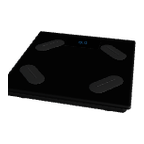
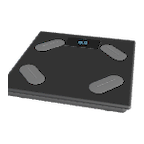
mac(tray): draw the device rows, so the dots really do share a column
A menu item lays its text out after its image, so anything pinned to the
trailing edge with a tab stop is measured from wherever that text begins — and
the wearables, whose rows differ, kept their dots out of line with the devices'
however carefully the images were matched. The rows are drawn now: a small view
per row places the picture, the name, the detail and the dot against the row's
own bounds. Nothing is given up by that, because these rows were never
clickable. The headings are drawn too, at the menu's left margin rather than
indented under the rows they head.

The pictures are half again as big, and the symbols are chosen from the device's
name as well as its kind — everything paired through a web page is recorded as
"browser", this Mac and the ESP32 board included, so a globe on all of them said
nothing. It is a laptop, a phone, a chip or Safari now.

The wearable renders needed more than cropping: the bottle and the scale are
black objects carrying one white specular over an almost-black body, so peak
brightness said nothing about whether you could see them. Each is lifted by
gamma on its mean until the shape reads at menu size instead of being a
silhouette on a dark menu.

Claude-Session: https://claude.ai/code/session_01MTaJeKSnLzzvxM7j2rFhx8

diff --git a/desktop_client/jc_client/mac_popover.py b/desktop_client/jc_client/mac_popover.py
@@ -37,19 +37,25 @@ _FOOTER_H = 34
 
 _MINI_PATH = "/?mini=voice"
 
-# Row metrics. ONE size for every picture, renders and SF Symbols alike: AppKit
-# indents a row's text by its image, so images of different widths gave every row
-# a different text origin — which is what threw the tab-stopped status dots out
-# of line with each other.
-_ICON_PT = 22
-_SYMBOL_PT = 22
-# Where the trailing status dot is pinned. Wide enough for the longest row.
-_ROW_WIDTH = 300.0
+# Row metrics. The device rows are drawn by hand (see `_RowView`) rather than
+# handed to AppKit as text: a menu item lays its text out after its image, so a
+# status dot placed with a tab stop moves with whatever is to its left and never
+# lines up between rows. Drawing puts it at a fixed distance from the row's
+# trailing edge, which is the only way it sits in a true column.
+_ICON_PT = 33.0
+_ROW_WIDTH = 340.0
+_ROW_HEIGHT = 40.0
+_LEFT_INSET = 14.0
+_GAP = 9.0
+_DOT_PT = 8.0
+_DOT_RIGHT_INSET = 16.0
+_HEADER_HEIGHT = 24.0
+_HEADER_INSET = 11.0
 
 
-def _kind_symbol(kind: str) -> str:
+def _kind_symbol(kind: str, name: str = "") -> str:
     from jc_client.device_roster import kind_symbol
-    return kind_symbol(kind)
+    return kind_symbol(kind, name)
 
 
 def _const(module, *names, default=None):
@@ -180,70 +186,47 @@ class MenuBarVoicePopover:
             logger.debug("voice popover: could not style the menu: %s", exc)
 
     def _style_header(self, item, row) -> None:
-        import AppKit
+        """A section heading, drawn at the menu's own left margin.
 
+        As a titled item it would start after the image gutter, indented under
+        the rows it heads; drawn, it sits where the system puts "Known Networks".
+        """
+        if _RowView is None:
+            return
+        view = _RowView.alloc().initWithFrame_(
+            _AppKit.NSMakeRect(0, 0, _ROW_WIDTH, _HEADER_HEIGHT))
+        view.row = row
+        view.image = None
         item.setImage_(None)
-        font = AppKit.NSFont.systemFontOfSize_weight_(11, AppKit.NSFontWeightSemibold)
-        item.setAttributedTitle_(AppKit.NSAttributedString.alloc().initWithString_attributes_(
-            row.name.upper(), {
-                AppKit.NSFontAttributeName: font,
-                AppKit.NSForegroundColorAttributeName: AppKit.NSColor.secondaryLabelColor(),
-                AppKit.NSKernAttributeName: 0.6,
-            }))
+        item.setView_(view)
 
     def _style_device(self, item, row) -> None:
-        import AppKit
+        """Hand the row to a view that draws itself, so every part is placed.
 
-        image = self._image_for(row)
-        if image is not None:
-            item.setImage_(image)
-
-        # Name, then the detail in a smaller secondary colour, then the status
-        # dot pushed to the trailing edge by a right tab stop.
-        body = AppKit.NSFont.menuFontOfSize_(0)
-        small = AppKit.NSFont.menuFontOfSize_(11)
-        title = AppKit.NSMutableAttributedString.alloc().initWithString_attributes_(
-            row.name, {AppKit.NSFontAttributeName: body})
-        if row.detail:
-            title.appendAttributedString_(
-                AppKit.NSAttributedString.alloc().initWithString_attributes_(
-                    "  " + row.detail, {
-                        AppKit.NSFontAttributeName: small,
-                        AppKit.NSForegroundColorAttributeName: AppKit.NSColor.secondaryLabelColor(),
-                    }))
-        title.appendAttributedString_(
-            AppKit.NSAttributedString.alloc().initWithString_attributes_(
-                "\t●", {
-                    AppKit.NSFontAttributeName: AppKit.NSFont.systemFontOfSize_(9),
-                    AppKit.NSForegroundColorAttributeName: self._dot_colour(row.online),
-                }))
-
-        paragraph = AppKit.NSMutableParagraphStyle.alloc().init()
-        tab = AppKit.NSTextTab.alloc().initWithTextAlignment_location_options_(
-            _const(AppKit, "NSTextAlignmentRight", default=2), _ROW_WIDTH, {})
-        paragraph.setTabStops_([tab])
-        title.addAttribute_value_range_(AppKit.NSParagraphStyleAttributeName, paragraph,
-                                        AppKit.NSMakeRange(0, title.length()))
-        item.setAttributedTitle_(title)
-
-    def _dot_colour(self, online: bool):
-        import AppKit
-
-        if online:
-            return AppKit.NSColor.systemGreenColor()
-        # Not a red alarm: most of these are simply out of range, which is normal.
-        return AppKit.NSColor.tertiaryLabelColor()
+        These rows are never clickable, so a custom view costs nothing in
+        behaviour — and it is the only way the pictures all render at one size
+        and the status dots share a column.
+        """
+        if _RowView is None:
+            return
+        view = _RowView.alloc().initWithFrame_(
+            _AppKit.NSMakeRect(0, 0, _ROW_WIDTH, _ROW_HEIGHT))
+        view.row = row
+        view.image = self._image_for(row)
+        item.setImage_(None)
+        item.setView_(view)
 
     def _image_for(self, row):
-        """An 18pt picture for one row, cached — menus rebuild every few seconds."""
-        key = row.wearable or f"symbol:{_kind_symbol(row.kind)}"
+        """One row's picture, cached — the menu rebuilds every couple of seconds."""
+        symbol = _kind_symbol(row.kind, row.name)
+        key = row.wearable or f"symbol:{symbol}"
         if key in self._image_cache:
             return self._image_cache[key]
-        image = self._render_wearable(row.wearable) if row.wearable             else self._symbol(_kind_symbol(row.kind))
+        image = self._render_wearable(row.wearable) if row.wearable else self._symbol(symbol)
         self._image_cache[key] = image
         return image
 
-    def _render_wearable(self, wearable: str):
+    def _render_wearable(self, wearable: str):  # noqa: D401
         """The PNG rendered from the device's own 3D model in the iOS app."""
         import AppKit
         from pathlib import Path
@@ -258,6 +241,21 @@ class MenuBarVoicePopover:
         image.setSize_(AppKit.NSMakeSize(_ICON_PT, _ICON_PT))
         return image
 
+    def _tinted(self, image, colour):
+        """A template symbol drawn by hand loses the tint AppKit would give it."""
+        import AppKit
+
+        out = image.copy()
+        out.setSize_(AppKit.NSMakeSize(_ICON_PT, _ICON_PT))
+        out.lockFocus()
+        colour.set()
+        AppKit.NSRectFillUsingOperation(
+            AppKit.NSMakeRect(0, 0, _ICON_PT, _ICON_PT),
+            _const(AppKit, "NSCompositingOperationSourceAtop", default=5))
+        out.unlockFocus()
+        out.setTemplate_(False)
+        return out
+
     def _symbol(self, name: str):
         import AppKit
 
@@ -267,10 +265,10 @@ class MenuBarVoicePopover:
             image = None
         if image is None:
             return None
-        image.setSize_(AppKit.NSMakeSize(_SYMBOL_PT, _SYMBOL_PT))
-        # Template images follow the menu's own light/dark appearance.
+        image.setSize_(AppKit.NSMakeSize(_ICON_PT, _ICON_PT))
         image.setTemplate_(True)
-        return image
+        # Drawn by hand, so the menu's own tinting no longer applies.
+        return self._tinted(image, AppKit.NSColor.labelColor())
 
     # ── clicks ───────────────────────────────────────────────────────
 
@@ -498,6 +496,8 @@ def install(icon, on_open_window: Callable[[], None]) -> Optional[MenuBarVoicePo
 
 _ClickDelegate = None
 _WebViewDelegate = None
+_RowView = None
+_AppKit = None
 # Decision blocks we could not call; held so WebKit never releases them. See
 # `_grant` — releasing an uncalled one aborts the process.
 _UNANSWERED: list = []
@@ -538,6 +538,83 @@ if sys.platform == "darwin":  # pragma: no cover - needs a macOS run loop
                 if self.owner is not None:
                     self.owner.open_in_window()
 
+        class _RowView(_AppKit.NSView):
+            """One device or heading, drawn rather than described.
+
+            A menu item lays its text out after its image, so anything pinned to
+            the trailing edge with a tab stop shifts with whatever precedes it —
+            which is why the status dots never shared a column. Drawing places
+            every part against the row's own bounds instead. These rows are not
+            clickable, so nothing of a menu item's behaviour is given up.
+            """
+
+            row = None
+            image = None
+
+            def drawRect_(self, _dirty):
+                bounds = self.bounds()
+                if self.row is None:
+                    return
+                if getattr(self.row, "header", False):
+                    self._draw_header(bounds)
+                else:
+                    self._draw_device(bounds)
+
+            def _draw_header(self, bounds):
+                text = _AppKit.NSAttributedString.alloc().initWithString_attributes_(
+                    str(self.row.name).upper(), {
+                        _AppKit.NSFontAttributeName:
+                            _AppKit.NSFont.systemFontOfSize_weight_(11, _AppKit.NSFontWeightSemibold),
+                        _AppKit.NSForegroundColorAttributeName:
+                            _AppKit.NSColor.secondaryLabelColor(),
+                        _AppKit.NSKernAttributeName: 0.6,
+                    })
+                size = text.size()
+                text.drawAtPoint_(_AppKit.NSMakePoint(
+                    _HEADER_INSET, (bounds.size.height - size.height) / 2))
+
+            def _draw_device(self, bounds):
+                if self.image is not None:
+                    self.image.drawInRect_fromRect_operation_fraction_(
+                        _AppKit.NSMakeRect(_LEFT_INSET,
+                                           (bounds.size.height - _ICON_PT) / 2,
+                                           _ICON_PT, _ICON_PT),
+                        _AppKit.NSZeroRect,
+                        _const(_AppKit, "NSCompositingOperationSourceOver", default=2), 1.0)
+
+                name = _AppKit.NSAttributedString.alloc().initWithString_attributes_(
+                    str(self.row.name), {
+                        _AppKit.NSFontAttributeName: _AppKit.NSFont.menuFontOfSize_(0),
+                        _AppKit.NSForegroundColorAttributeName: _AppKit.NSColor.labelColor(),
+                    })
+                x = _LEFT_INSET + _ICON_PT + _GAP
+                size = name.size()
+                y = (bounds.size.height - size.height) / 2
+                name.drawAtPoint_(_AppKit.NSMakePoint(x, y))
+
+                detail = str(getattr(self.row, "detail", "") or "")
+                if detail:
+                    aside = _AppKit.NSAttributedString.alloc().initWithString_attributes_(
+                        detail, {
+                            _AppKit.NSFontAttributeName: _AppKit.NSFont.menuFontOfSize_(11),
+                            _AppKit.NSForegroundColorAttributeName:
+                                _AppKit.NSColor.secondaryLabelColor(),
+                        })
+                    aside_size = aside.size()
+                    aside.drawAtPoint_(_AppKit.NSMakePoint(
+                        x + size.width + 8,
+                        (bounds.size.height - aside_size.height) / 2))
+
+                # The dot, measured from the row's trailing edge so every row
+                # agrees on where it goes.
+                colour = _AppKit.NSColor.systemGreenColor() if self.row.online \
+                    else _AppKit.NSColor.tertiaryLabelColor()
+                colour.set()
+                rect = _AppKit.NSMakeRect(bounds.size.width - _DOT_RIGHT_INSET - _DOT_PT,
+                                          (bounds.size.height - _DOT_PT) / 2,
+                                          _DOT_PT, _DOT_PT)
+                _AppKit.NSBezierPath.bezierPathWithOvalInRect_(rect).fill()
+
         class _WebViewDelegate(_AppKit.NSObject):  # noqa: F811
             """Grants the page microphone access.
 
@@ -567,3 +644,4 @@ if sys.platform == "darwin":  # pragma: no cover - needs a macOS run loop
         logger.debug("voice popover: Obj-C glue unavailable: %s", _exc)
         _ClickDelegate = None
         _WebViewDelegate = None
+        _RowView = None

diff --git a/desktop_client/jc_client/device_roster.py b/desktop_client/jc_client/device_roster.py
@@ -56,19 +56,27 @@ class DeviceRow:
         return f"{self.name} — {self.detail}" if self.detail else self.name
 
 
-def kind_symbol(kind: str) -> str:
-    """SF Symbol for a device kind. Wearables use their own rendered picture."""
+def kind_symbol(kind: str, name: str = "") -> str:
+    """SF Symbol for a device. Wearables use their own rendered picture.
+
+    The name matters as much as the kind: everything that paired through a web
+    page is recorded as "browser", including the ESP32 board and this Mac, so a
+    globe on all of them tells you nothing. The name is what distinguishes them.
+    """
     k = (kind or "").lower()
-    if k.startswith("mobile-ios") or k.startswith("ios"):
+    n = (name or "").lower()
+    if "esp32" in n or "board" in n:
+        return "cpu"
+    if k.startswith("mobile-ios") or k.startswith("ios") or "iphone" in n:
         return "iphone"
     if k.startswith("mobile"):
         return "ipad"
     if k.startswith("watch"):
         return "applewatch"
-    if k.startswith("desktop"):
+    if k.startswith("desktop") or "macbook" in n or "imac" in n or "mac" in n:
         return "laptopcomputer"
     if k.startswith("browser"):
-        return "globe"
+        return "safari"
     return "display"
 
 

diff --git a/desktop_client/jc_client/test_device_roster.py b/desktop_client/jc_client/test_device_roster.py
@@ -34,9 +34,18 @@ def test_every_wearable_finds_its_picture():
 def test_device_kinds_map_to_symbols():
     assert kind_symbol("mobile-ios") == "iphone"
     assert kind_symbol("desktop") == "laptopcomputer"
-    assert kind_symbol("browser") == "globe"
+    assert kind_symbol("browser") == "safari"
     assert kind_symbol("watch") == "applewatch"
     assert kind_symbol("") == "display"
+
+
+def test_the_name_decides_when_the_kind_cannot():
+    """Everything paired through a web page is recorded as "browser" — the Mac
+    and the ESP32 board included — so a globe on all of them says nothing."""
+    assert kind_symbol("browser", "Jarvis-ESP32 board") == "cpu"
+    assert kind_symbol("browser", "Pranavs-MacBook-Pro.local") == "laptopcomputer"
+    assert kind_symbol("browser", "Macbook Pro Web") == "laptopcomputer"
+    assert kind_symbol("browser", "Some random tab") == "safari"
 
 
 def test_last_seen_reads_in_the_largest_useful_unit():
